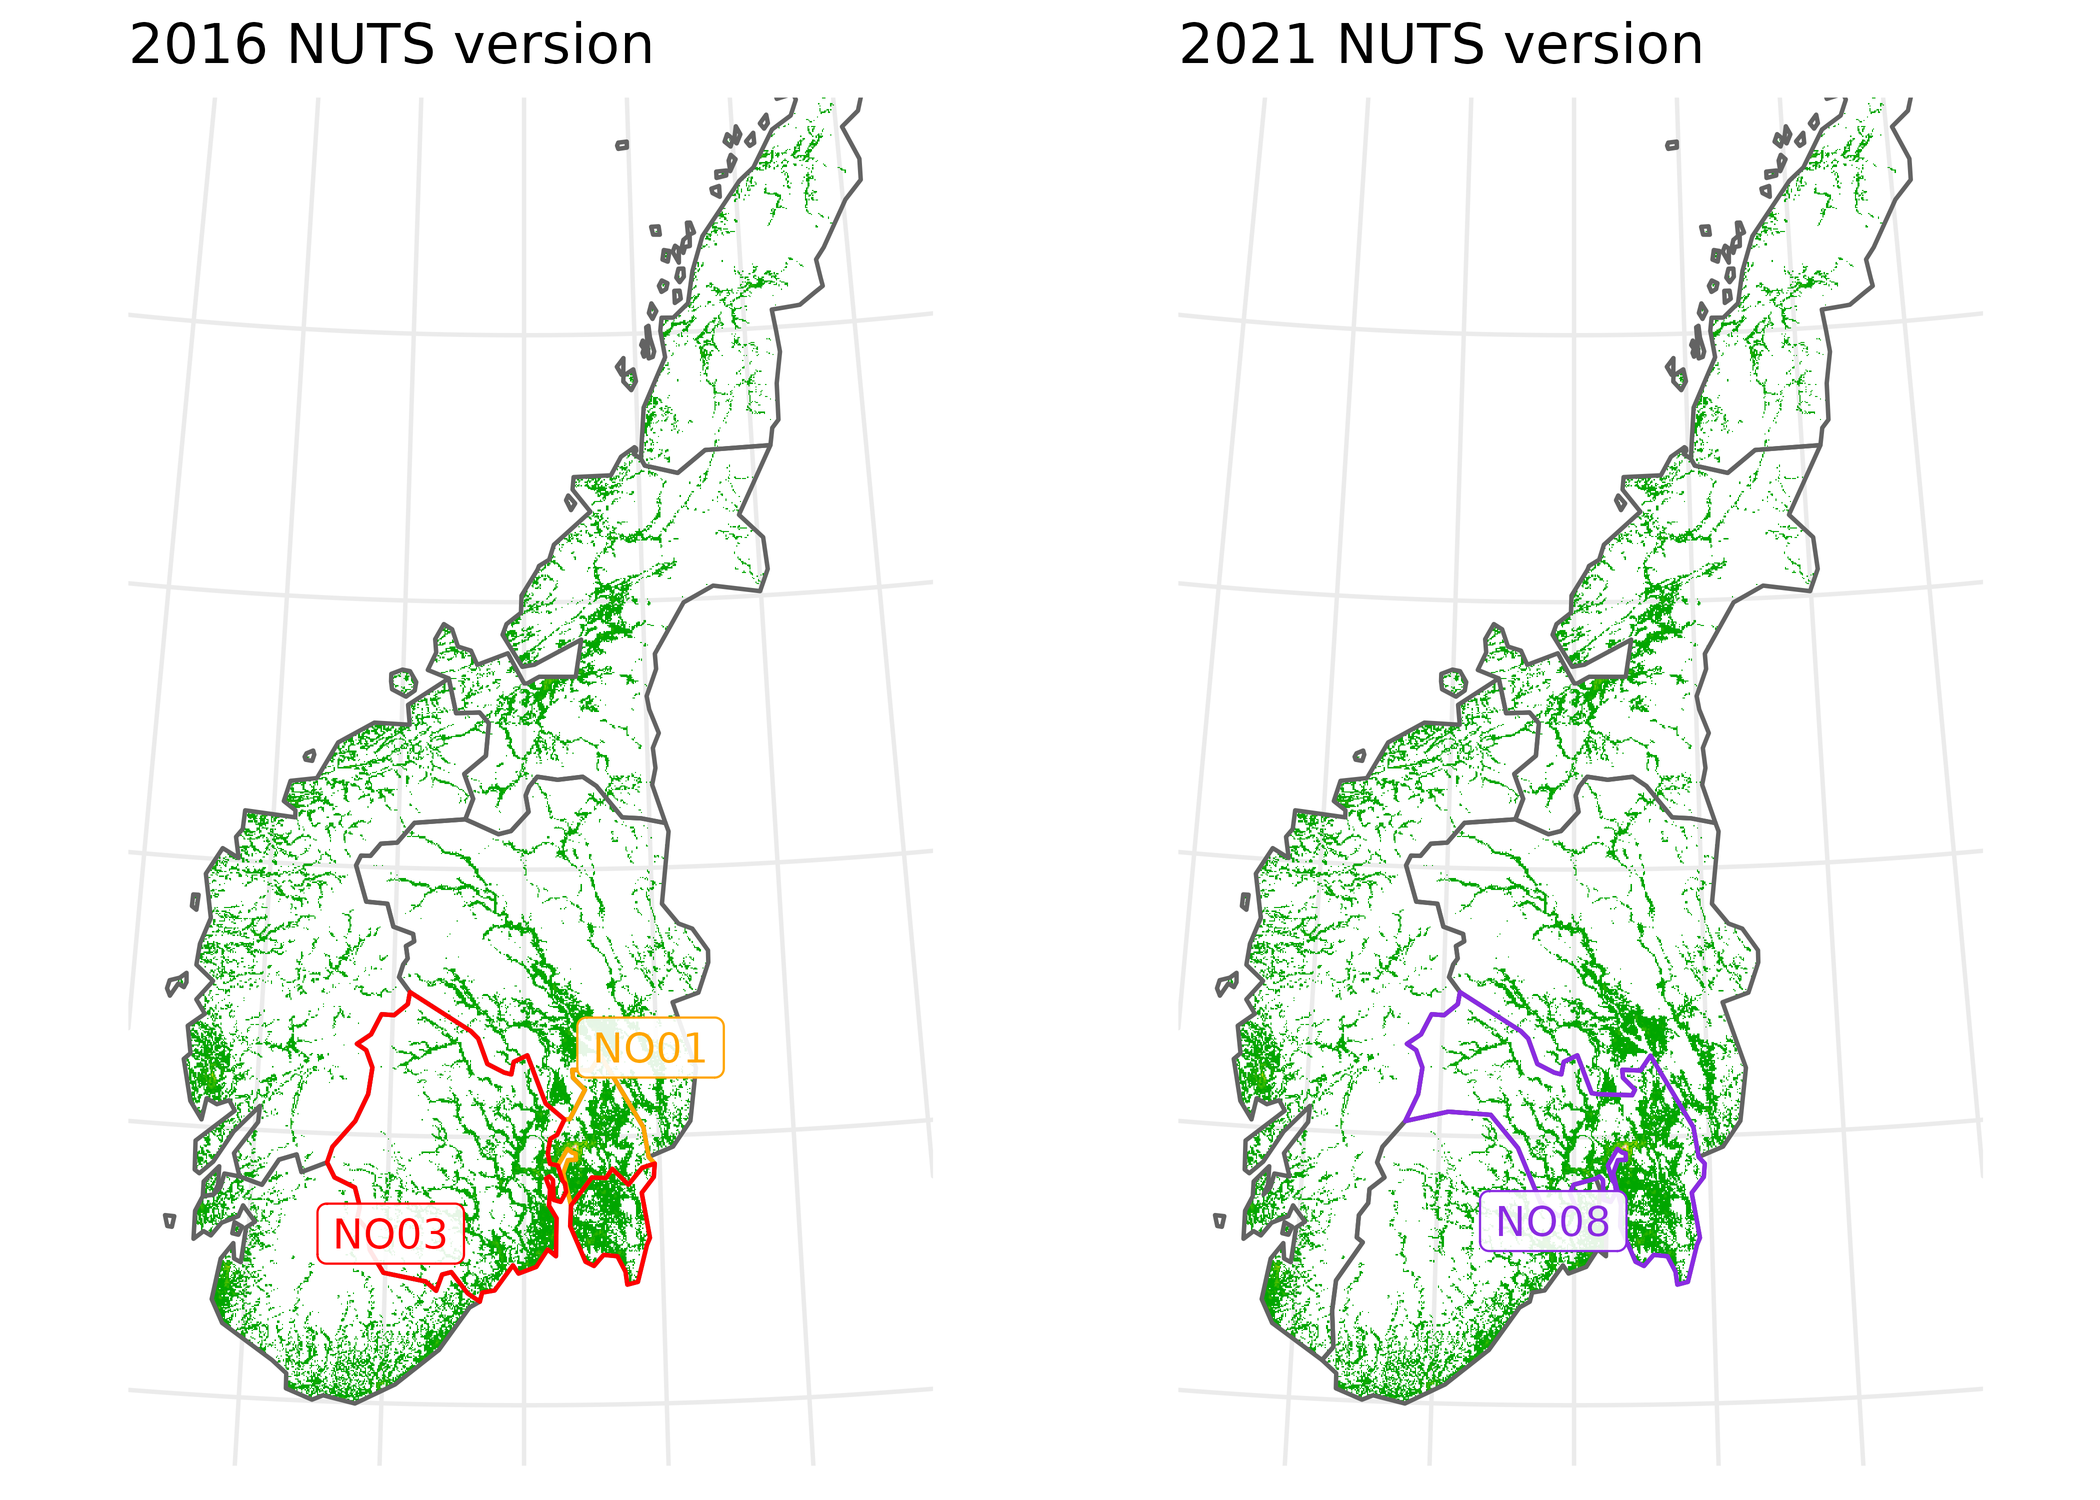
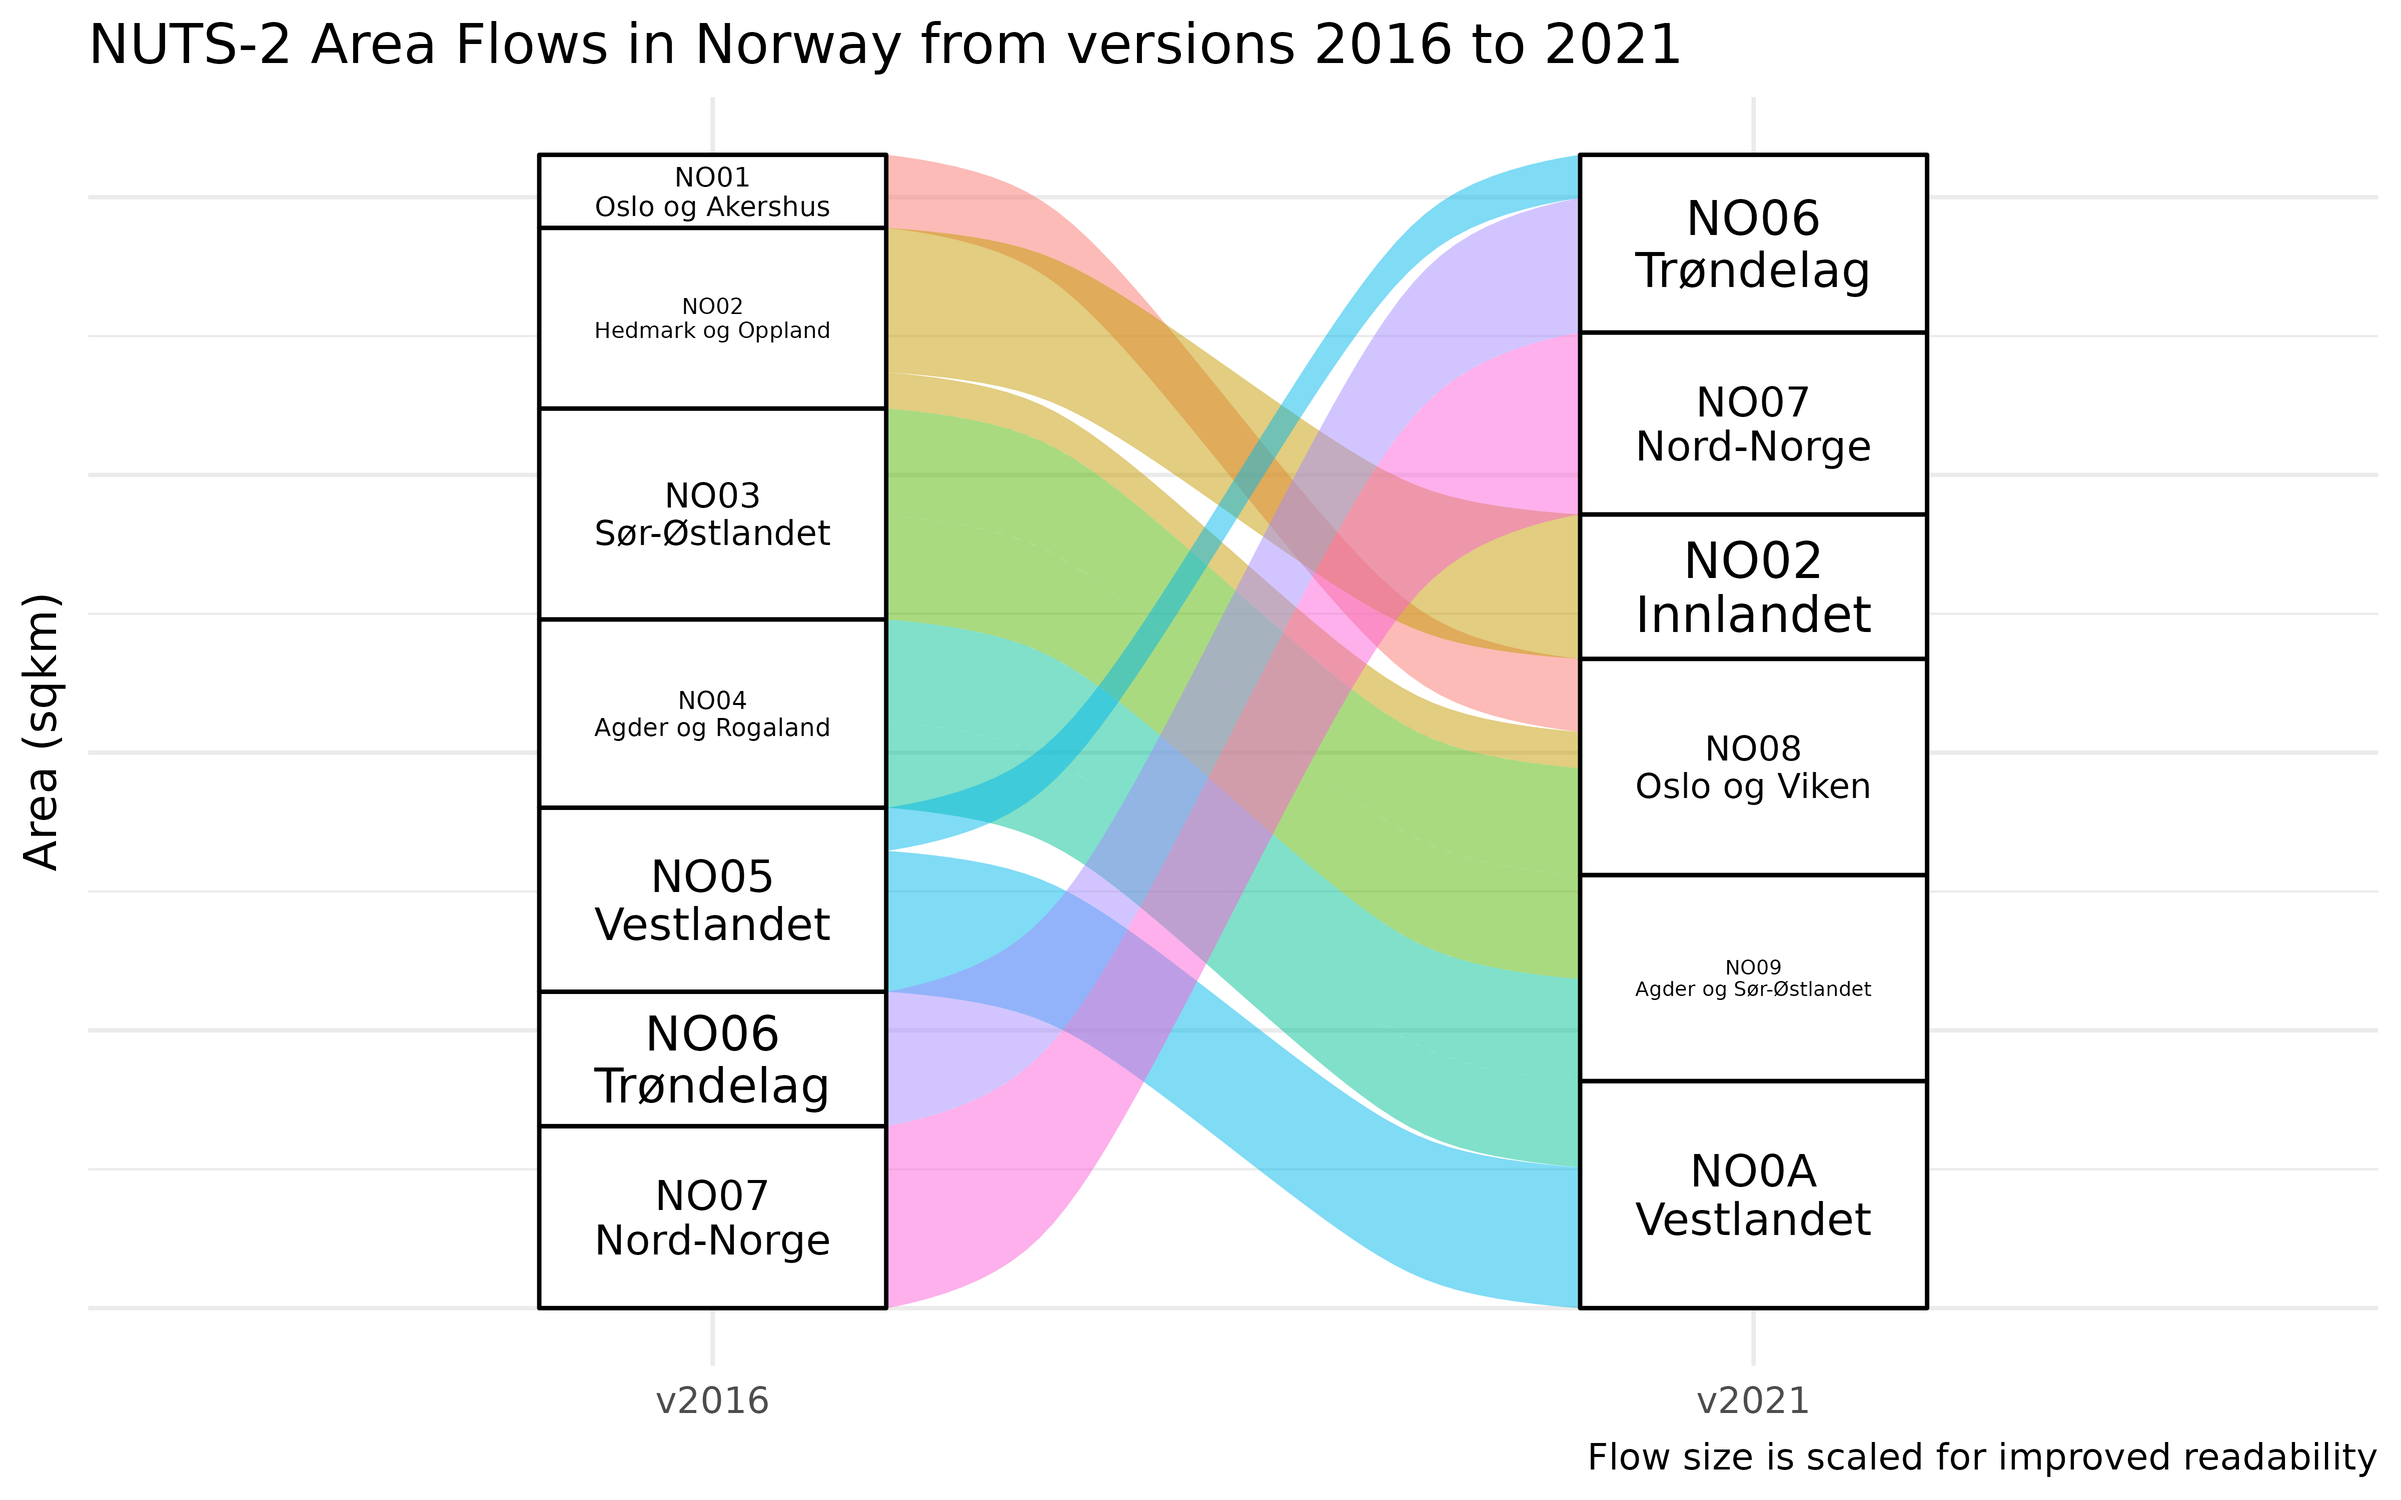
Deploying to gh-pages from @ AAoritz/nuts@89c84e3028d552363995808698a355b8be3d38ca 🚀

Changed region(s): [[0.0312, 0.0, 0.9981, 0.992], [0.0, 0.403, 0.0312, 0.589], [0.2807, 0.93, 0.3119, 0.961]]

diff --git a/articles/nuts.html b/articles/nuts.html
@@ -799,8 +799,15 @@ historical NUTS codes</strong> by NUTS version and country</li>
 <p>They are based on <a href="https://urban.jrc.ec.europa.eu/nutsconverter/#/" class="external-link">data provided by
 the JRC</a>. Both data sets can also be used by the user manually to
 explore specific conversion patterns more closely.</p>
-<p>For Norway going from version 2016 to 2021, the
-<code>cross_walks</code> look as follows:</p>
+<p>For Norway going from version 2016 to 2021 at NUTS level 2, the
+<code>cross_walks</code> can be easily subset as follows:</p>
+<div class="sourceCode" id="cb37"><pre class="downlit sourceCode r">
+<code class="sourceCode R"><span><span class="va">no_walks</span> <span class="op">&lt;-</span> <span class="va">cross_walks</span> <span class="op"><a href="https://magrittr.tidyverse.org/reference/pipe.html" class="external-link">%&gt;%</a></span></span>
+<span>  <span class="fu"><a href="https://dplyr.tidyverse.org/reference/filter.html" class="external-link">filter</a></span><span class="op">(</span><span class="fu"><a href="https://rdrr.io/r/base/nchar.html" class="external-link">nchar</a></span><span class="op">(</span><span class="va">from_code</span><span class="op">)</span> <span class="op">==</span> <span class="fl">4</span>,</span>
+<span>         <span class="va">from_version</span> <span class="op">==</span> <span class="fl">2016</span>,</span>
+<span>         <span class="va">to_version</span> <span class="op">==</span> <span class="fl">2021</span>,</span>
+<span>         <span class="fu"><a href="https://rdrr.io/r/base/grep.html" class="external-link">grepl</a></span><span class="op">(</span><span class="st">"^NO"</span>, <span class="va">from_code</span><span class="op">)</span><span class="op">)</span></span></code></pre></div>
+<p>Which results in the following conversion table:</p>
 <div style="border: 1px solid #ddd; padding: 5px; overflow-x: scroll; width:100%; ">
 <table class="table table table-striped table-hover table-condensed table-responsive" style="margin-left: auto; margin-right: auto;">
 <thead><tr>
@@ -1234,7 +1241,7 @@ JRC with granular [100m x 100m] geographic data. The
 <code>ggalluvial</code> plot below visualizes the flows of area size
 between the NUTS-2 regions mapped above.</p>
 <div class="figure">
-<img src="nuts_files/figure-html/unnamed-chunk-35-1.png" alt="The alluvial plot shows population flows from NUTS version 2016 to 2021." width="100%"><p class="caption">
+<img src="nuts_files/figure-html/unnamed-chunk-36-1.png" alt="The alluvial plot shows population flows from NUTS version 2016 to 2021." width="100%"><p class="caption">
 Alluvial plot illustrating area size flows; Created using the <a href="https://corybrunson.github.io/ggalluvial/" class="external-link">ggalluvial</a> package.
 </p>
 </div>
@@ -1249,7 +1256,7 @@ of the latter. Assuming that the variable to be converted is correlated
 with population across space, the conversion can thus be refined using
 population weights to account for flows between different versions.</p>
 <div class="figure">
-<img src="nuts_files/figure-html/unnamed-chunk-36-1.png" alt="Two maps of Southern Norway with very granular population density and administrative boundaries of the 2016 and 2021 NUTS version. The region with the capital Olso and its adjacent region are highlighted in version 2016 that both contribute to a larger single region in version 2021." width="100%"><p class="caption">
+<img src="nuts_files/figure-html/unnamed-chunk-37-1.png" alt="Two maps of Southern Norway with very granular population density and administrative boundaries of the 2016 and 2021 NUTS version. The region with the capital Olso and its adjacent region are highlighted in version 2016 that both contribute to a larger single region in version 2021." width="100%"><p class="caption">
 Spatial distribution of population and boundary changes; Sources: <a href="https://ec.europa.eu/eurostat/web/gisco/geodata/reference-data/administrative-units-statistical-units/nuts" class="external-link">Shapefiles</a>
 and <a href="https://ec.europa.eu/eurostat/web/gisco/geodata/reference-data/population-distribution-demography/geostat" class="external-link">population
 raster</a> from EUROSTAT; Created using the <a href="https://r-spatial.github.io/sf/" class="external-link">sf</a> and the <a href="https://rspatial.github.io/terra/reference/terra-package.html" class="external-link">terra</a>
